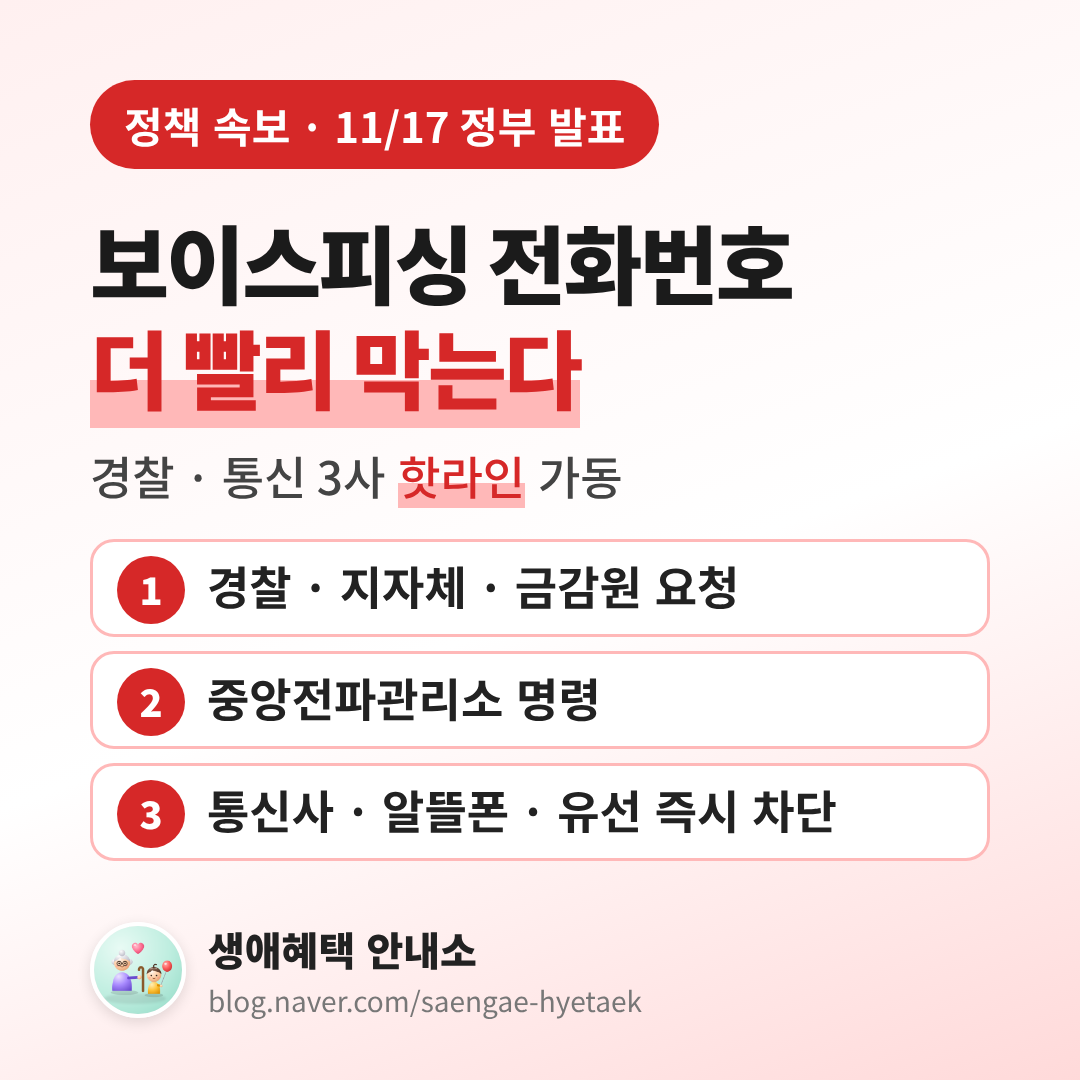
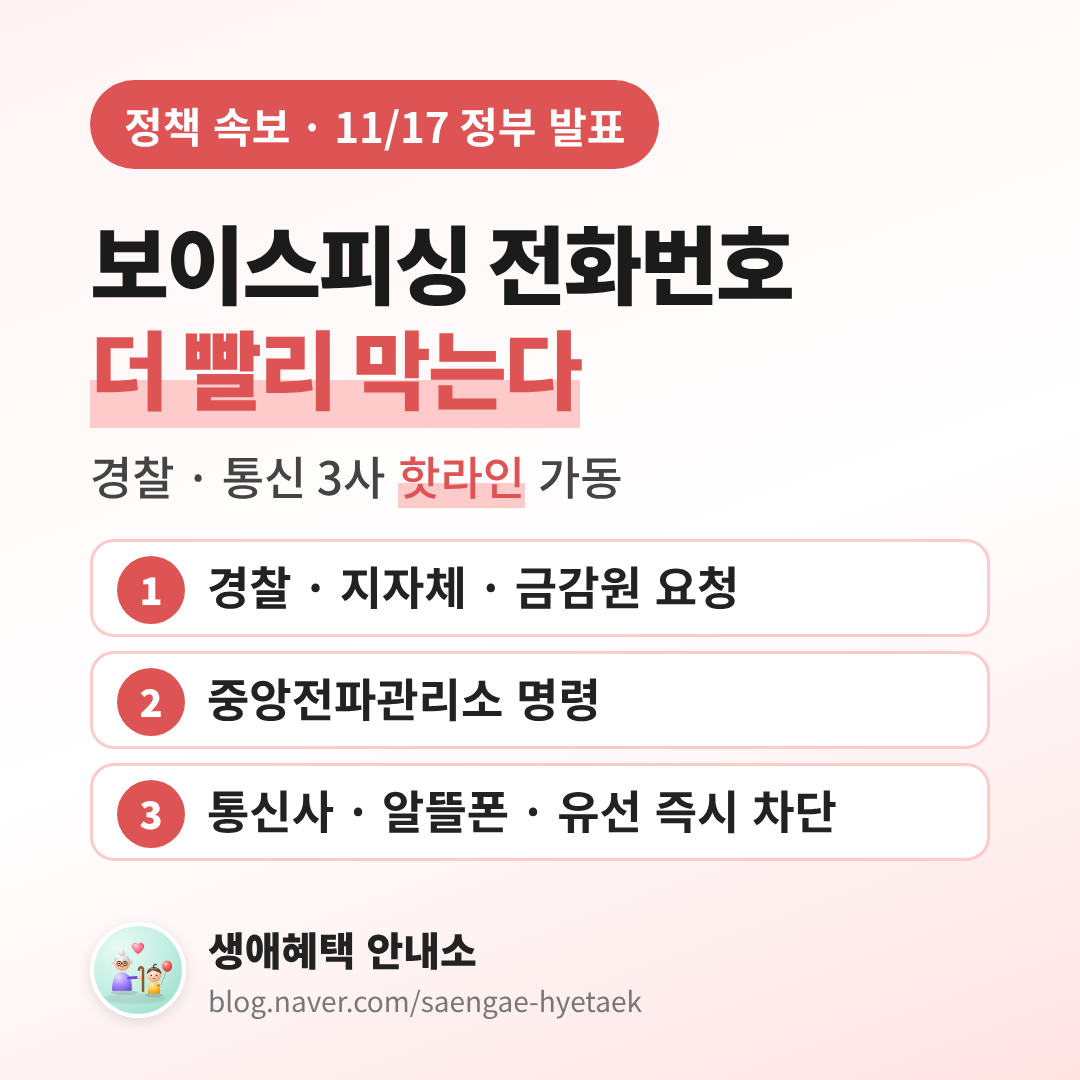
속보 빨강을 조금 옅게 (#DE5353), 카드·표 다시 만듦
Claude-Session: https://claude.ai/code/session_01Nk3GpR5MyMigwnRjdt5zYv

diff --git a/tools/blog-card/make-viewer.py b/tools/blog-card/make-viewer.py
@@ -6,7 +6,7 @@ ROOT = os.path.dirname(os.path.dirname(os.path.dirname(os.path.abspath(__file__)
 BLOG = os.path.join(ROOT, 'blog')
 OUT = os.path.join(ROOT, 'viewer')
 DAYS = '월화수목금토일'
-COLOR = {'money': '#d9480f', 'digital': '#1c5fd4', 'job': '#4a8c12', 'guide': '#0f8a6c', 'news': '#d62828'}
+COLOR = {'money': '#d9480f', 'digital': '#1c5fd4', 'job': '#4a8c12', 'guide': '#0f8a6c', 'news': '#de5353'}
 
 shutil.rmtree(OUT, ignore_errors=True)
 os.makedirs(os.path.join(OUT, 'img'))

diff --git a/tools/blog-card/make-saengae-html.py b/tools/blog-card/make-saengae-html.py
@@ -7,7 +7,7 @@
 import sys, re, json, html
 
 src, names, out = sys.argv[1], json.load(open(sys.argv[2], encoding='utf-8')), sys.argv[3]
-COLOR = {'money': '#D9480F', 'digital': '#1C5FD4', 'job': '#4A8C12', 'news': '#D62828'}
+COLOR = {'money': '#D9480F', 'digital': '#1C5FD4', 'job': '#4A8C12', 'news': '#DE5353'}
 theme = COLOR[names.get('theme', 'money')]
 raw = open(src, encoding='utf-8').read()
 title = raw.split('━ 제목 ━')[1].split('━ 본문 ━')[0].strip('━ \n')

diff --git a/HANDOFF.md b/HANDOFF.md
@@ -9,7 +9,7 @@
 - 카드·표·원고 도구에 빨강 테마 "news" 추가(make-card/make-table/make-saengae-html).
 - 속보 원고도 다른 글처럼 미리보기 페이지(아티팩트 '생애혜택 안내소 블로그 원고' https://claude.ai/artifact/VJzBS45PPtURTQygo3yxiu)에 올림 — 사장님 11/18 "우리 네이버 블로그 원고에 써라". make-viewer.py에 news 빨강 추가. 원고 txt의 '■ 대표 이미지:'와 [표 이미지 1:]은 blog/ 안 png 이름으로.
 - 사진 파일 이름 = 번호 + 사진 설명 키워드를 하이픈으로(지시서 카드 규칙, 밑줄·띄어쓰기 금지) 예: '02-보이스피싱-번호-차단-3단계-신고처.webp'. 01-대표 같은 이름 금지 — 사장님 11/18 재지시. 앱 소개는 지시서 표준 문구('토스 \'생애혜택 안내소\'' 금지).
-- 색 규칙(사장님 확정): 속보 = 항상 빨강(news, #D62828). 요일 글 = 월 다홍 #D9480F · 수 파랑 #1C5FD4 · 금 녹색 #4A8C12. 섞지 않기.
+- 색 규칙(사장님 확정): 속보 = 항상 빨강(news, #DE5353). 요일 글 = 월 다홍 #D9480F · 수 파랑 #1C5FD4 · 금 녹색 #4A8C12. 섞지 않기.
 - 네이버 카테고리 '정책 속보' 전체 주제 = 비즈니스·경제 (디지털 소식만 글에서 IT·컴퓨터로).
 - 예약 작업 '생애혜택 정책 속보 감시' 새로 만듦: 매일 09:43·13:43·17:43, korea.kr 공식 자료만, 새 소식 있을 때만 글 꾸러미+알림. 쓴 속보는 blog/속보-기록.md 에 기록.
 ## ⭐ 11/18 11:20 — 링크는 열어 보고 완전한 것만 (사장님 지시, 모든 작업)
